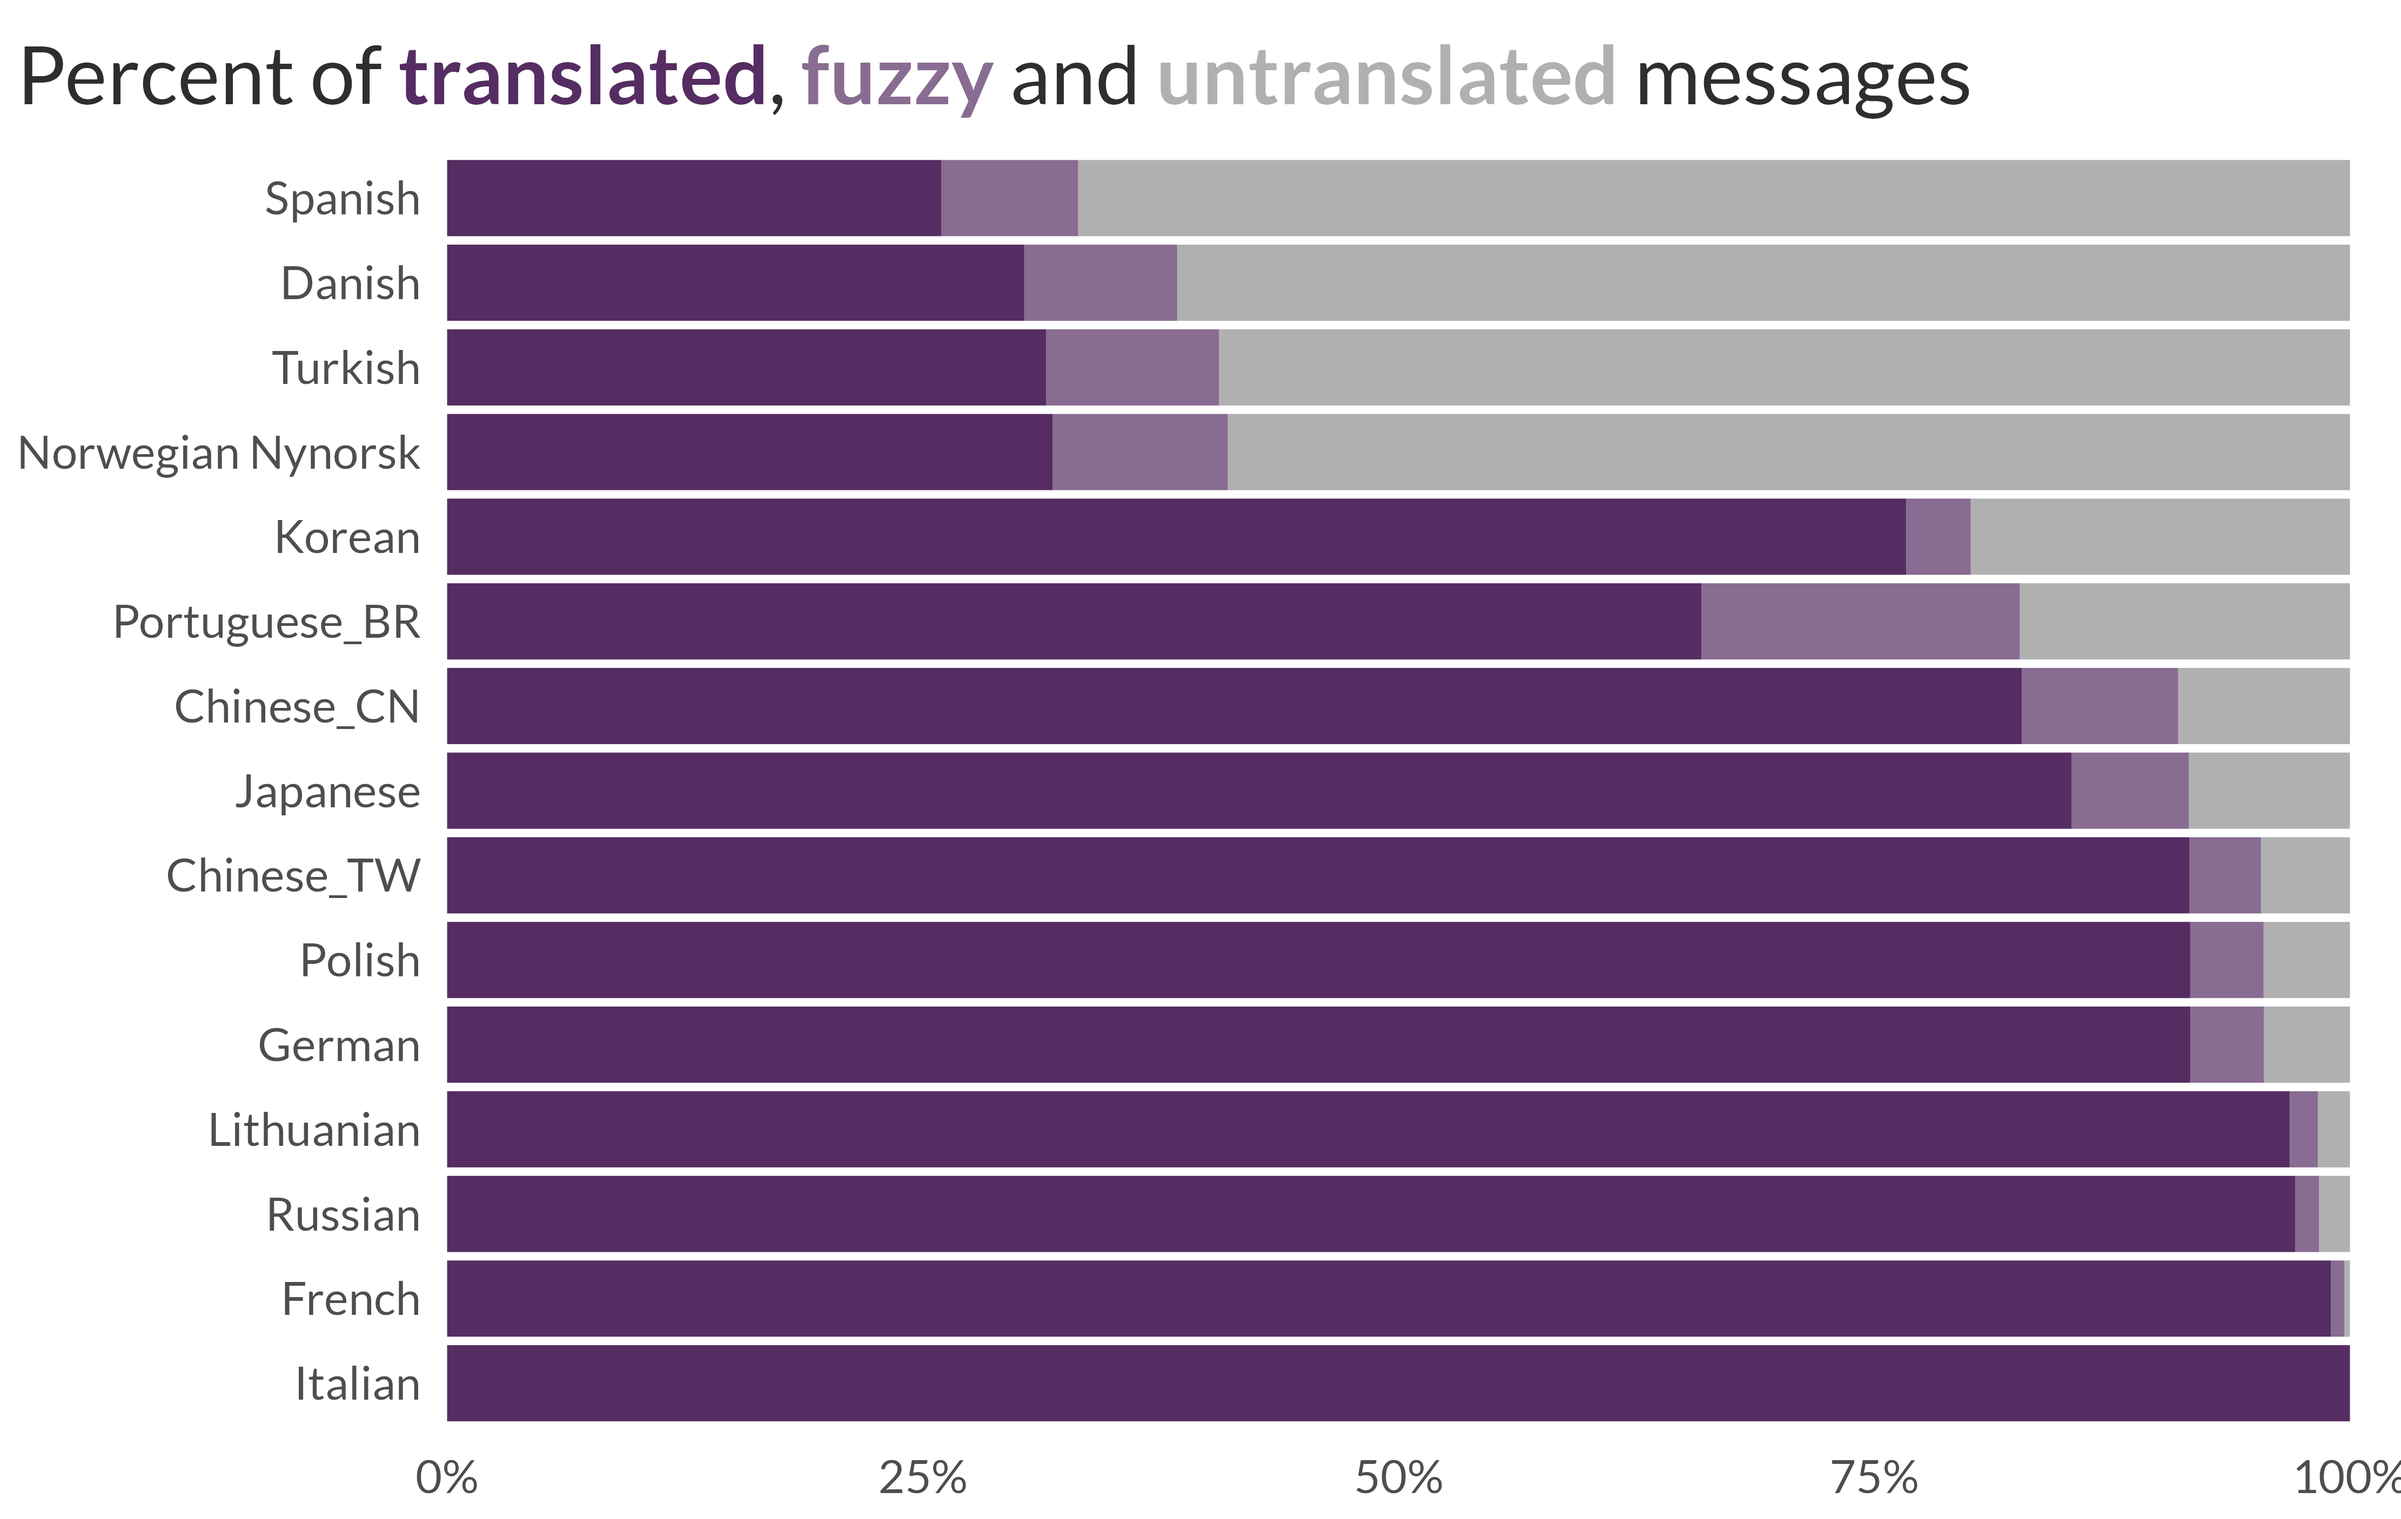
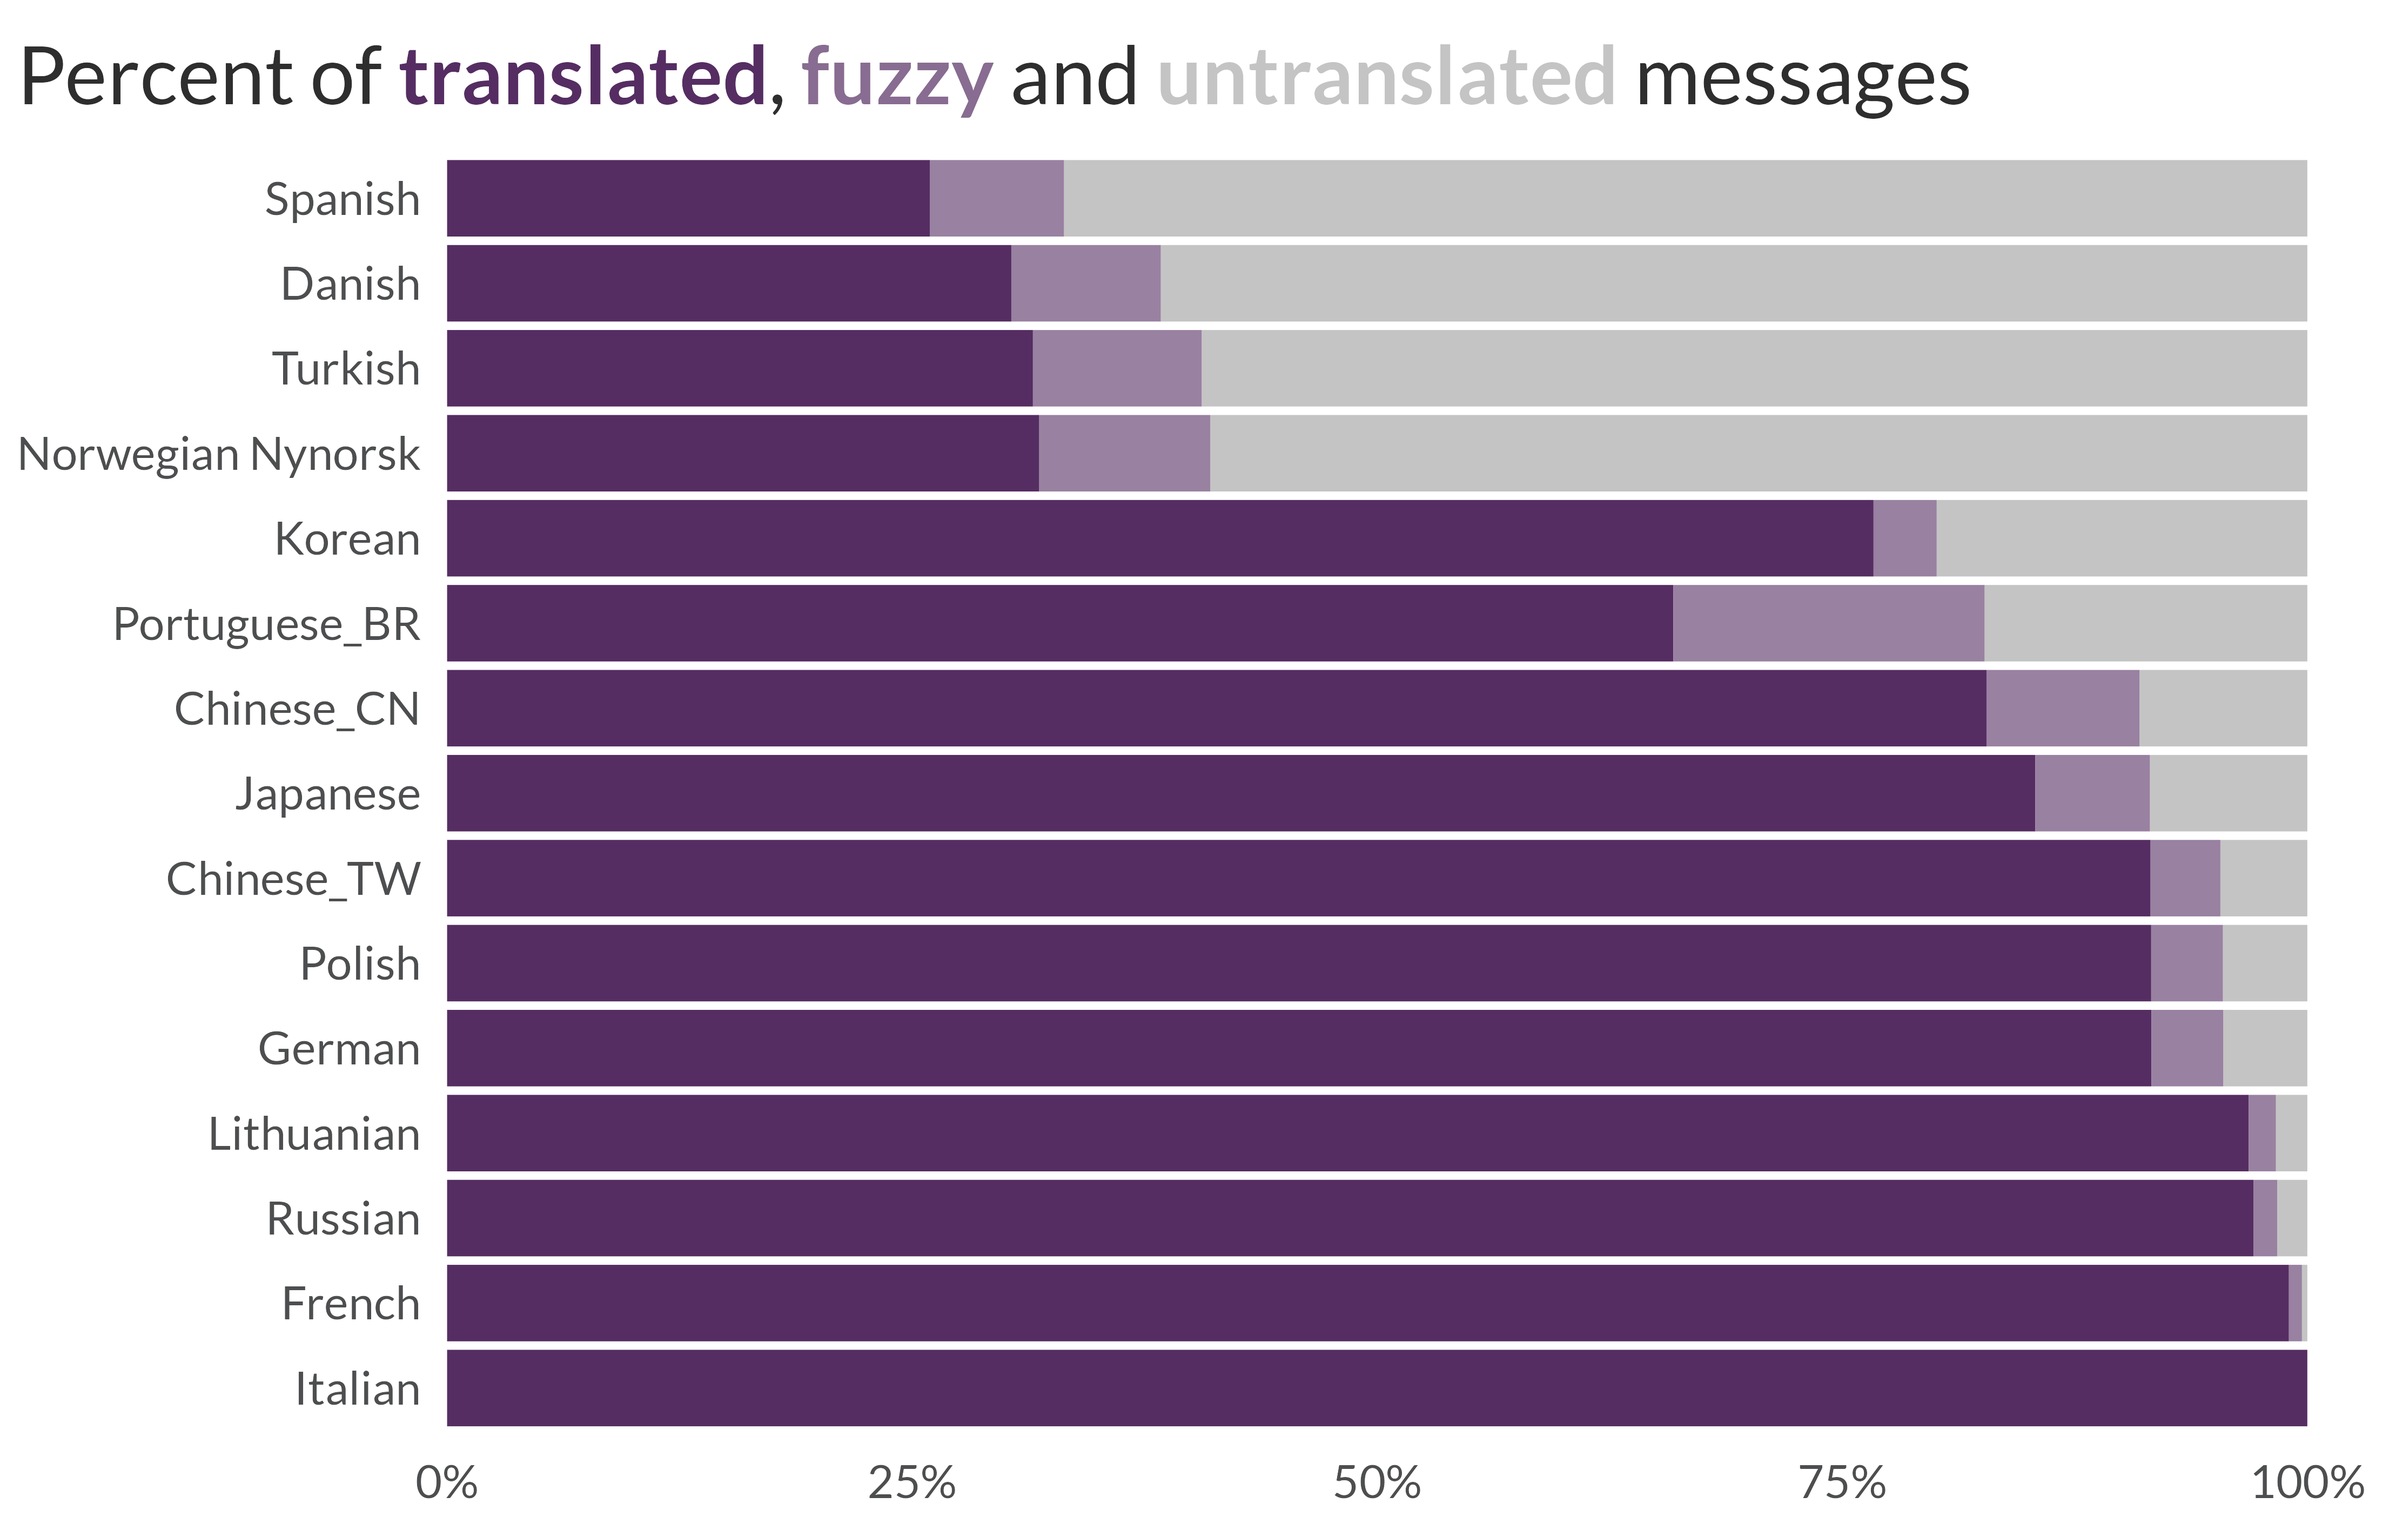
Add qrcode and improve translation_status

diff --git a/2023-04-22_SatRday-London_R-sustainability-EDI.html b/2023-04-22_SatRday-London_R-sustainability-EDI.html
@@ -8,7 +8,7 @@
 <link href="2023-04-22_SatRday-London_R-sustainability-EDI_files/libs/quarto-html/light-border.css" rel="stylesheet">
 <link href="2023-04-22_SatRday-London_R-sustainability-EDI_files/libs/quarto-html/quarto-html.min.css" rel="stylesheet" data-mode="light">
 <link href="2023-04-22_SatRday-London_R-sustainability-EDI_files/libs/quarto-html/quarto-syntax-highlighting.css" rel="stylesheet" id="quarto-text-highlighting-styles"><meta charset="utf-8">
-  <meta name="generator" content="quarto-1.3.290">
+  <meta name="generator" content="quarto-1.3.250">
 
   <meta name="author" content="Heather Turner and Ella Kaye">
   <meta name="dcterms.date" content="2023-04-22">
@@ -343,11 +343,17 @@ Heather Turner and Ella Kaye
 </section>
 <section id="presentation-details" class="slide level2">
 <h2>Presentation details</h2>
+<div class="columns">
+<div class="column" style="width:70%;">
 <p>slides: <a href="https://satrday-sustain-r.netlify.app/" class="uri">https://satrday-sustain-r.netlify.app/</a></p>
 <p>repo: <a href="https://github.com/EllaKaye/sustain-R" class="uri">https://github.com/EllaKaye/sustain-R</a></p>
 <p><br></p>
 <p>mastodon: <a href="https://hachyderm.io/@R_Contributors"><span class="citation" data-cites="R_contributors">@R_contributors</span><span class="citation" data-cites="hachyderm.io">@hachyderm.io</span></a></p>
 <p>twitter: <a href="https://twitter.com/R_Contributors"><span class="citation" data-cites="R_contributors">@R_contributors</span></a></p>
+</div><div class="column" style="width:30%;">
+<p><img data-src="images/slides-url.png"></p>
+</div>
+</div>
 <aside class="notes">
 <ul>
 <li>follow along/accessibility</li>
@@ -532,7 +538,7 @@ Heather Turner and Ella Kaye
 <li>Contributing translations</li>
 </ul>
 
-<img data-src="figures/translation_status.png" width="444" class="r-stretch quarto-figure-center"><aside class="notes">
+<img data-src="figures/translation_status.png" width="442" class="r-stretch quarto-figure-center"><aside class="notes">
 <p>translations of messages Spanish is an interesting case, given large Spanish-speaking userbase</p>
 <style type="text/css">
         span.MJX_Assistive_MathML {
@@ -869,7 +875,7 @@ div.callout-warning.callout-style-default .callout-title {
 'autoAnimateEasing': "ease",
 'autoAnimateDuration': 1,
 'autoAnimateUnmatched': true,
-'menu': {"side":"left","useTextContentForMissingTitles":true,"markers":false,"loadIcons":false,"custom":[{"title":"Tools","icon":"<i class=\"fas fa-gear\"></i>","content":"<ul class=\"slide-menu-items\">\n<li class=\"slide-tool-item active\" data-item=\"0\"><a href=\"#\" onclick=\"RevealMenuToolHandlers.fullscreen(event)\"><kbd>f</kbd> Fullscreen</a></li>\n<li class=\"slide-tool-item\" data-item=\"1\"><a href=\"#\" onclick=\"RevealMenuToolHandlers.speakerMode(event)\"><kbd>s</kbd> Speaker View</a></li>\n<li class=\"slide-tool-item\" data-item=\"2\"><a href=\"#\" onclick=\"RevealMenuToolHandlers.overview(event)\"><kbd>o</kbd> Slide Overview</a></li>\n<li class=\"slide-tool-item\" data-item=\"3\"><a href=\"#\" onclick=\"RevealMenuToolHandlers.togglePdfExport(event)\"><kbd>e</kbd> PDF Export Mode</a></li>\n<li class=\"slide-tool-item\" data-item=\"4\"><a href=\"#\" onclick=\"RevealMenuToolHandlers.keyboardHelp(event)\"><kbd>?</kbd> Keyboard Help</a></li>\n</ul>"}],"openButton":true},
+'menu': {"side":"left","useTextContentForMissingTitles":true,"markers":false,"loadIcons":false,"custom":[{"title":"Tools","icon":"<i class=\"fas fa-gear\"></i>","content":"<ul class=\"slide-menu-items\">\n<li class=\"slide-tool-item active\" data-item=\"0\"><a href=\"#\" onclick=\"RevealMenuToolHandlers.fullscreen(event)\"><kbd>f</kbd> Fullscreen</a></li>\n<li class=\"slide-tool-item\" data-item=\"1\"><a href=\"#\" onclick=\"RevealMenuToolHandlers.speakerMode(event)\"><kbd>s</kbd> Speaker View</a></li>\n<li class=\"slide-tool-item\" data-item=\"2\"><a href=\"#\" onclick=\"RevealMenuToolHandlers.overview(event)\"><kbd>o</kbd> Slide Overview</a></li>\n<li class=\"slide-tool-item\" data-item=\"3\"><a href=\"#\" onclick=\"RevealMenuToolHandlers.overview(event)\"><kbd>e</kbd> PDF Export Mode</a></li>\n<li class=\"slide-tool-item\" data-item=\"4\"><a href=\"#\" onclick=\"RevealMenuToolHandlers.keyboardHelp(event)\"><kbd>?</kbd> Keyboard Help</a></li>\n</ul>"}],"openButton":true},
 'smaller': false,
  
         // Display controls in the bottom right corner
